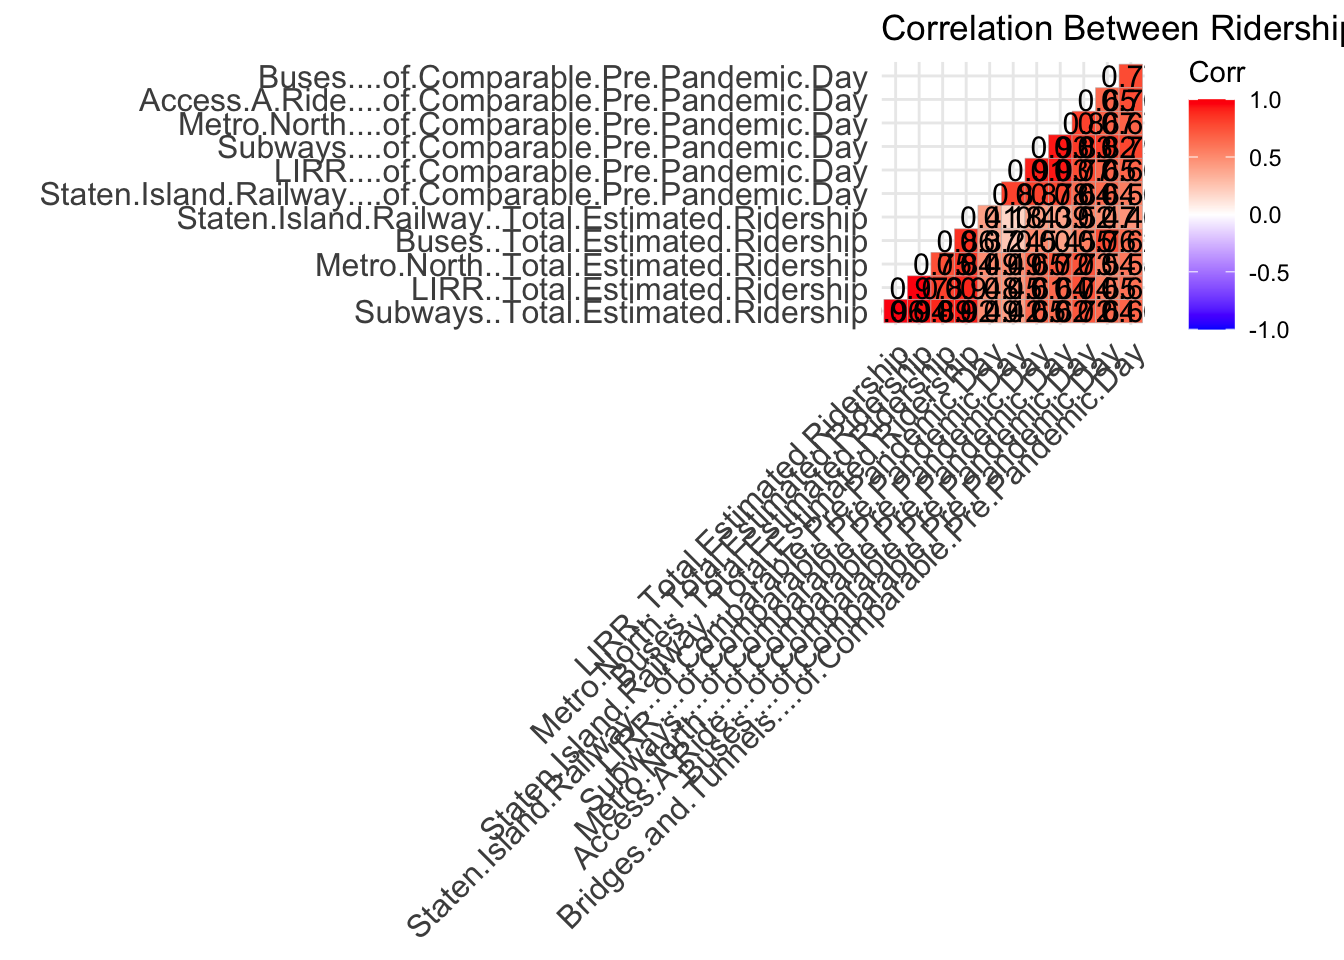
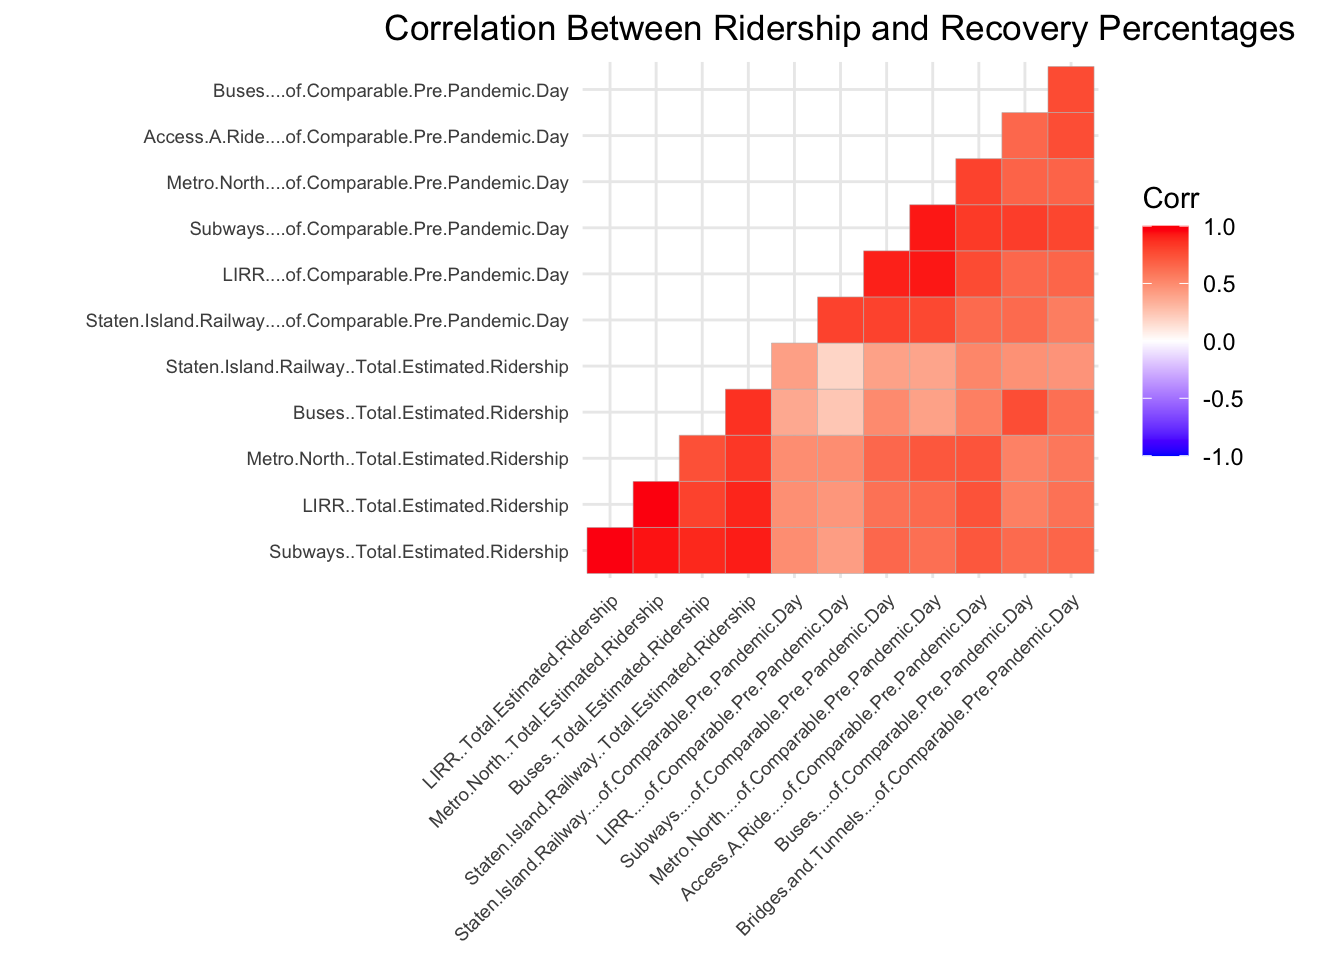
build after results.qmd changes

diff --git a/docs/results.html b/docs/results.html
@@ -379,9 +379,17 @@ Supply arguments directly to `.fns` through an anonymous function instead.
 <span id="cb16-4"><a href="#cb16-4" aria-hidden="true" tabindex="-1"></a></span>
 <span id="cb16-5"><a href="#cb16-5" aria-hidden="true" tabindex="-1"></a><span class="co"># Heatmap</span></span>
 <span id="cb16-6"><a href="#cb16-6" aria-hidden="true" tabindex="-1"></a><span class="fu">library</span>(ggcorrplot)</span>
-<span id="cb16-7"><a href="#cb16-7" aria-hidden="true" tabindex="-1"></a><span class="fu">ggcorrplot</span>(correlation_matrix, <span class="at">hc.order =</span> <span class="cn">TRUE</span>, <span class="at">type =</span> <span class="st">"lower"</span>,</span>
-<span id="cb16-8"><a href="#cb16-8" aria-hidden="true" tabindex="-1"></a>           <span class="at">title =</span> <span class="st">"Correlation Between Ridership and Recovery Percentages"</span>,</span>
-<span id="cb16-9"><a href="#cb16-9" aria-hidden="true" tabindex="-1"></a>           <span class="at">lab =</span> <span class="cn">TRUE</span>)</span></code><button title="Copy to Clipboard" class="code-copy-button"><i class="bi"></i></button></pre></div>
+<span id="cb16-7"><a href="#cb16-7" aria-hidden="true" tabindex="-1"></a><span class="fu">ggcorrplot</span>(correlation_matrix, </span>
+<span id="cb16-8"><a href="#cb16-8" aria-hidden="true" tabindex="-1"></a>           <span class="at">hc.order =</span> <span class="cn">TRUE</span>, </span>
+<span id="cb16-9"><a href="#cb16-9" aria-hidden="true" tabindex="-1"></a>           <span class="at">type =</span> <span class="st">"lower"</span>,</span>
+<span id="cb16-10"><a href="#cb16-10" aria-hidden="true" tabindex="-1"></a>           <span class="at">title =</span> <span class="st">"Correlation Between Ridership and Recovery Percentages"</span>,</span>
+<span id="cb16-11"><a href="#cb16-11" aria-hidden="true" tabindex="-1"></a>           <span class="at">lab =</span> <span class="cn">FALSE</span>, <span class="co"># Remove the numbers in the squares</span></span>
+<span id="cb16-12"><a href="#cb16-12" aria-hidden="true" tabindex="-1"></a>           <span class="at">ggtheme =</span> <span class="fu">theme_minimal</span>()) <span class="sc">+</span> </span>
+<span id="cb16-13"><a href="#cb16-13" aria-hidden="true" tabindex="-1"></a>  <span class="fu">theme</span>(</span>
+<span id="cb16-14"><a href="#cb16-14" aria-hidden="true" tabindex="-1"></a>    <span class="at">plot.title =</span> <span class="fu">element_text</span>(<span class="at">hjust =</span> <span class="fl">0.5</span>),  <span class="co"># Center the title</span></span>
+<span id="cb16-15"><a href="#cb16-15" aria-hidden="true" tabindex="-1"></a>    <span class="at">axis.text.x =</span> <span class="fu">element_text</span>(<span class="at">size =</span> <span class="dv">7</span>),  <span class="co"># Adjust size of x-axis labels</span></span>
+<span id="cb16-16"><a href="#cb16-16" aria-hidden="true" tabindex="-1"></a>    <span class="at">axis.text.y =</span> <span class="fu">element_text</span>(<span class="at">size =</span> <span class="dv">7</span>)   <span class="co"># Adjust size of y-axis labels</span></span>
+<span id="cb16-17"><a href="#cb16-17" aria-hidden="true" tabindex="-1"></a>  )</span></code><button title="Copy to Clipboard" class="code-copy-button"><i class="bi"></i></button></pre></div>
 </details>
 <div class="cell-output-display">
 <div>
